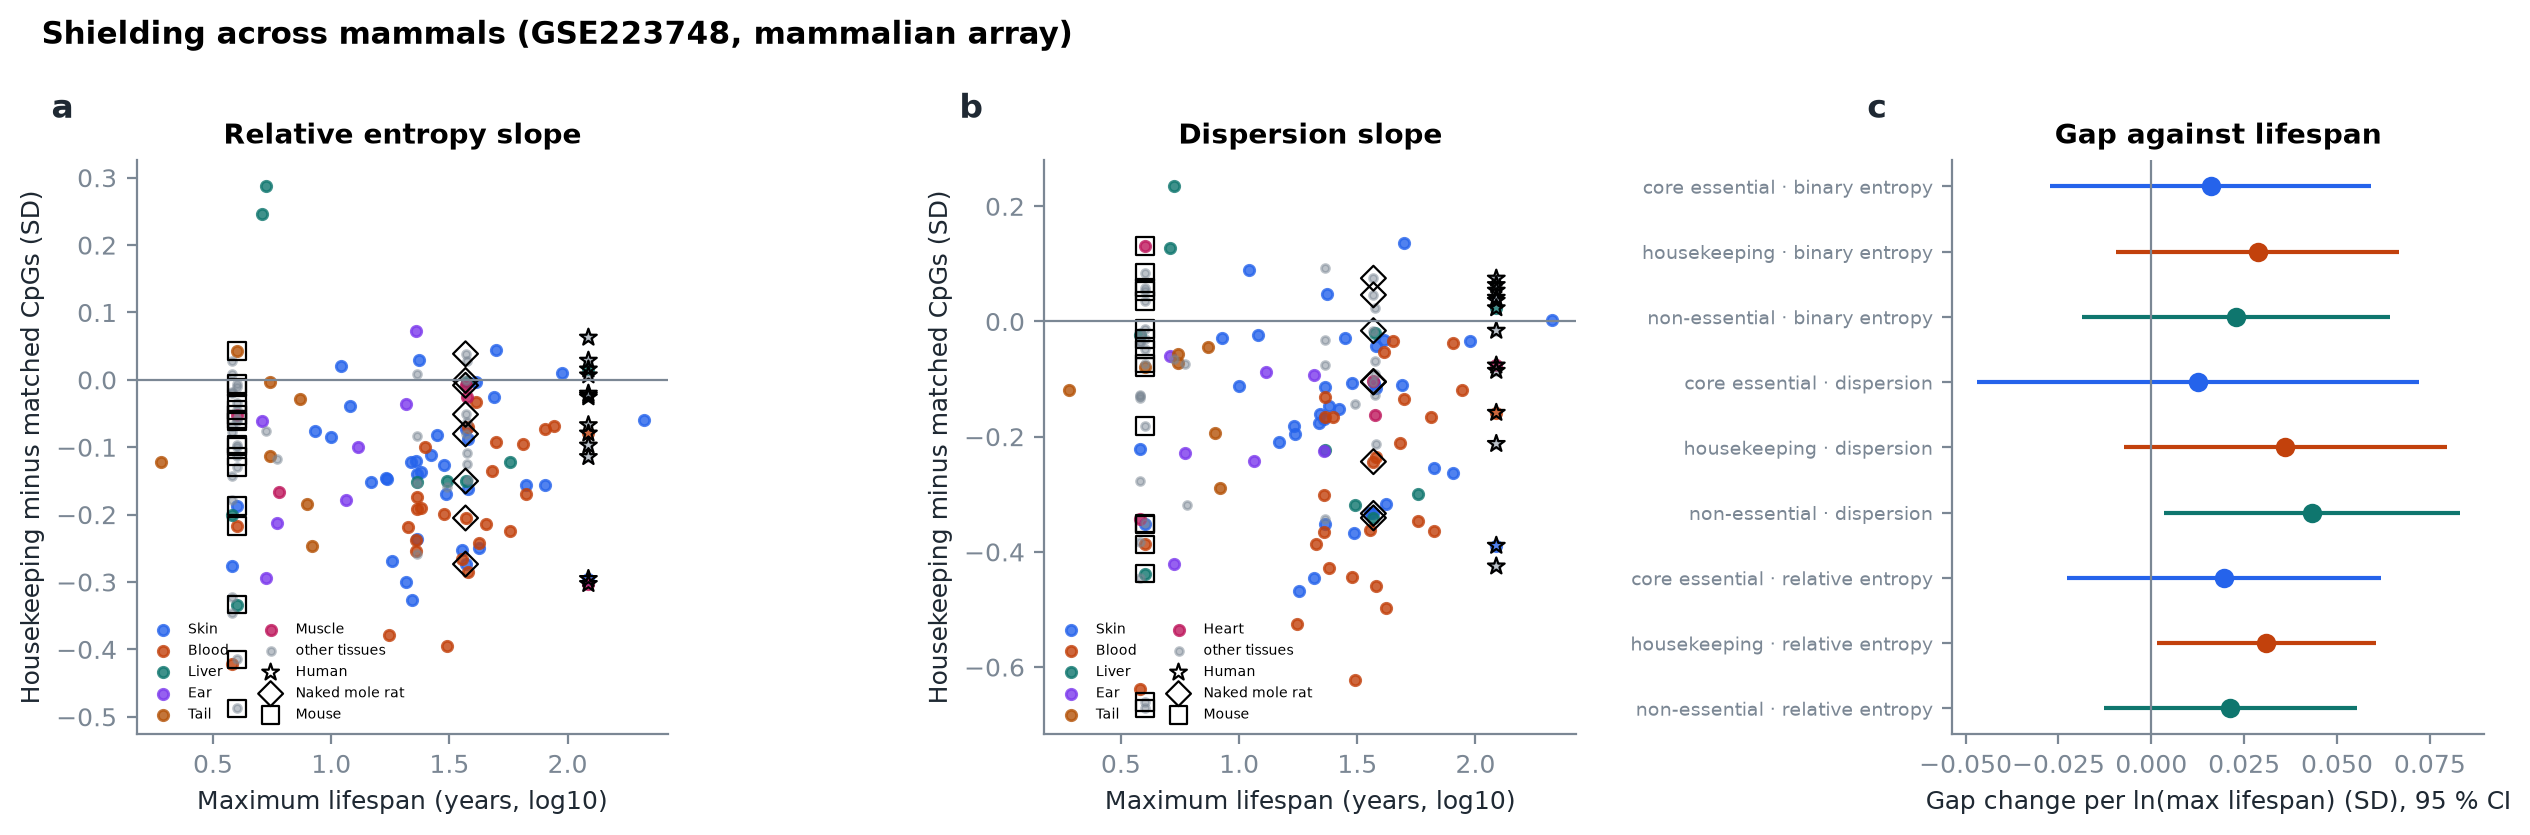
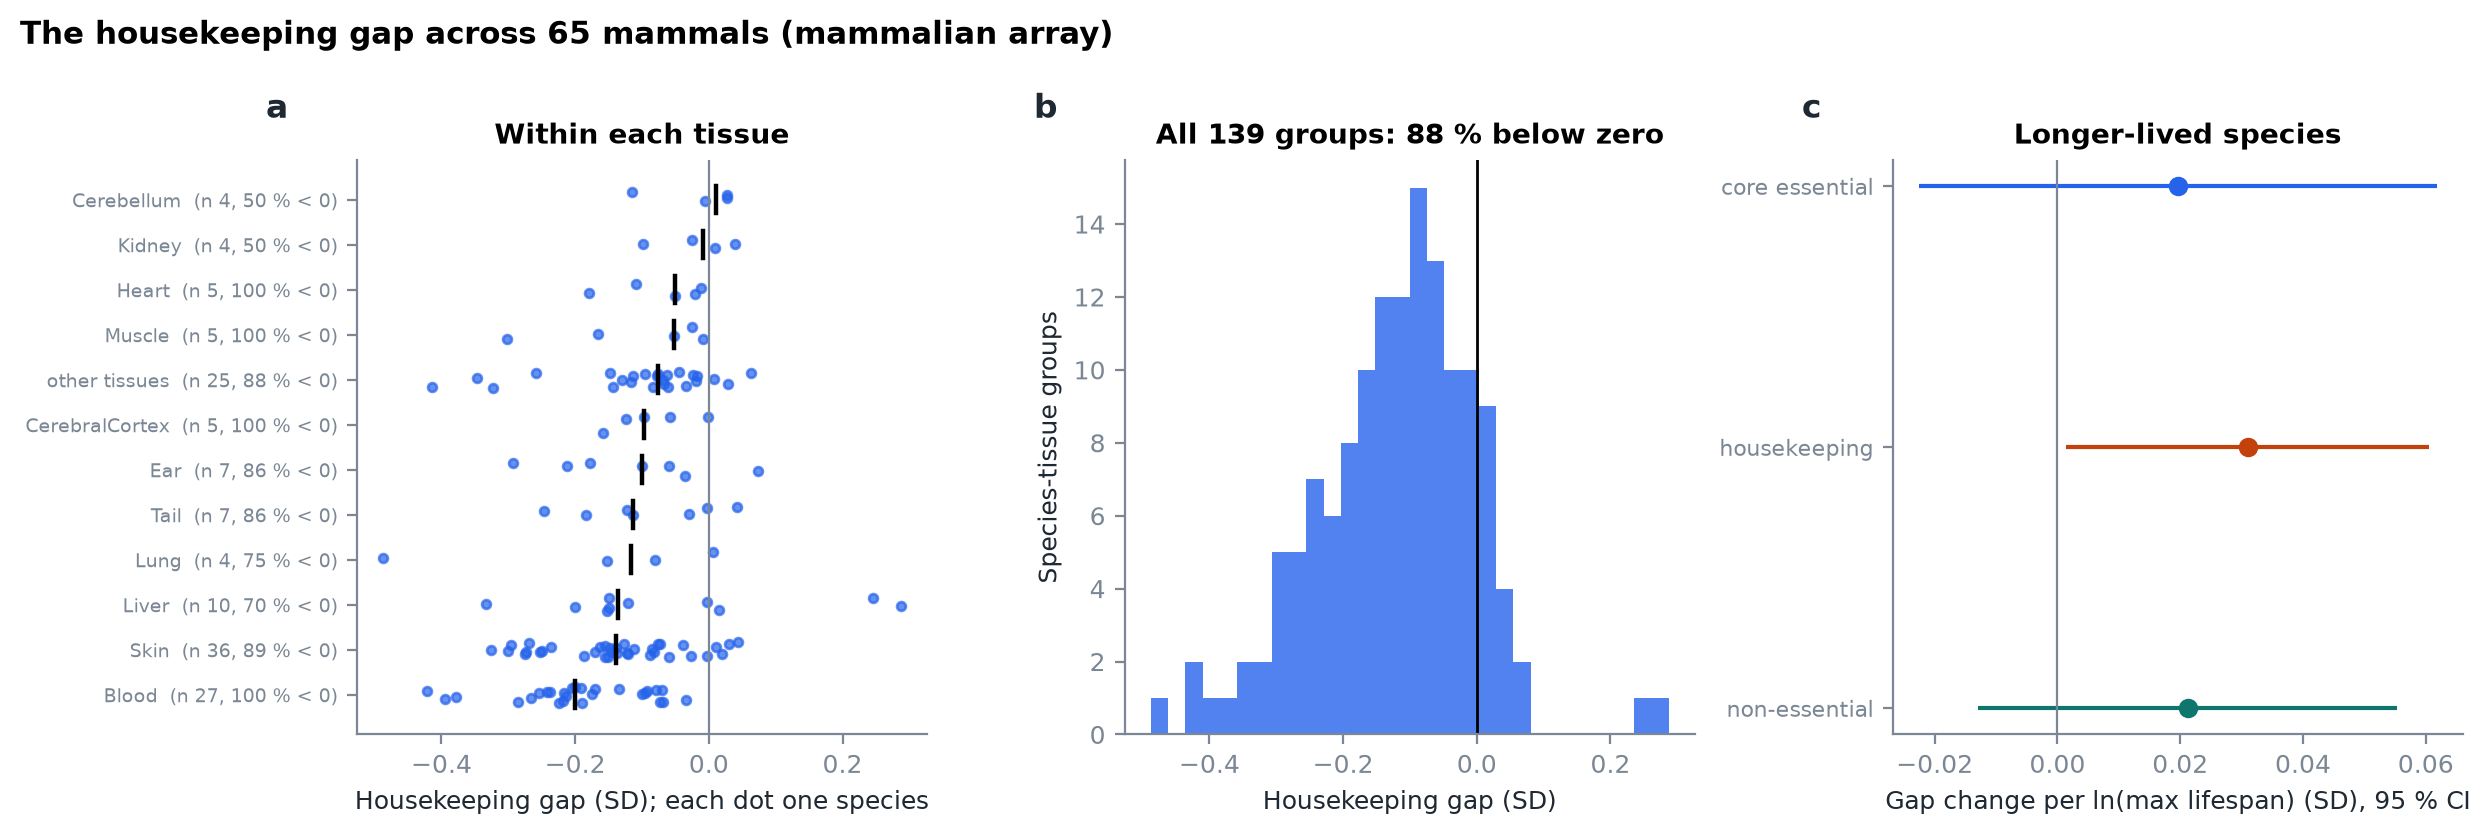
Figure 3: per-tissue view with share below zero, histogram of all groups, lifespan coefficients
Seat: entropy-age/lead
Claude-Session: https://claude.ai/code/session_01TJzjgJACUvbS1joxbZrgzk

diff --git a/src/entropy_age/experiments/species_shield.py b/src/entropy_age/experiments/species_shield.py
@@ -299,61 +299,60 @@ MARKED = {"Human": "*", "Naked mole rat": "D", "Mouse": "s"}
 
 
 def _figure(ctx: Context, gaps: pl.DataFrame, fits: pl.DataFrame) -> Path:
+    """(a) the housekeeping gap per species within each tissue, (b) all groups, (c) the lifespan coefficients."""
     fig, axes = plots.panels(3, ncols=3, size=4.2)
-    for i, metric in enumerate(("kl_slope", "dispersion_slope")):
-        ax = axes[i]
-        sel = gaps.filter((pl.col("metric") == metric) & (pl.col("group") == "housekeeping"))
-        tissues = sel.group_by("tissue").len().sort("len", descending=True)["tissue"].to_list()[:6]
-        for j, t in enumerate(tissues):
-            sub = sel.filter(pl.col("tissue") == t)
-            ax.scatter(
-                np.log10(sub["max_lifespan"]),
-                sub["gap_sd"],
-                s=14,
-                color=plots.PALETTE[j % len(plots.PALETTE)],
-                label=t,
-                alpha=0.8,
-            )
-        other = sel.filter(~pl.col("tissue").is_in(tissues))
-        ax.scatter(
-            np.log10(other["max_lifespan"]), other["gap_sd"], s=8, color=plots.MUTED, label="other tissues", alpha=0.5
-        )
-        for name, marker in MARKED.items():
-            hit = sel.filter(pl.col("species").str.to_lowercase() == name.lower())
-            ax.scatter(
-                np.log10(hit["max_lifespan"]),
-                hit["gap_sd"],
-                s=40,
-                marker=marker,
-                facecolors="none",
-                edgecolors="black",
-                linewidths=0.8,
-                label=name,
-            )
-        ax.axhline(0, color=plots.MUTED, lw=0.8)
-        ax.set(
-            xlabel="Maximum lifespan (years, log10)",
-            ylabel="Housekeeping minus matched CpGs (SD)",
-            title=f"{METRIC_NAMES[metric].capitalize()} slope",
-        )
-        ax.legend(fontsize=5, loc="lower left", ncol=2)
-        plots.label_panel(ax, "ab"[i])
-    ax = axes[2]
-    sel = fits.filter((pl.col("term") == "log max lifespan") & (pl.col("outcome") == "gap_sd"))
-    labels = []
-    for k, r in enumerate(sel.iter_rows(named=True)):
-        ax.errorbar(r["coef"], k, xerr=1.96 * r["se"], fmt="o", color=plots.PALETTE[SETS.index(r["group"])])
-        labels.append(f"{SET_LABELS[r['group']]} · {METRIC_NAMES[r['metric']]}")
-    ax.axvline(0, color=plots.MUTED, lw=0.8)
-    ax.set_yticks(range(len(labels)), labels, fontsize=7)
-    ax.invert_yaxis()
-    ax.set(
-        xlabel="Gap change per ln(max lifespan) (SD), 95 % CI",
-        title="Gap against lifespan",
+    sel = gaps.filter((pl.col("metric") == "kl_slope") & (pl.col("group") == "housekeeping"))
+    counts = sel.group_by("tissue").len()
+    major = counts.filter(pl.col("len") >= 4)["tissue"].to_list()
+    sel = sel.with_columns(
+        panel_tissue=pl.when(pl.col("tissue").is_in(major)).then(pl.col("tissue")).otherwise(pl.lit("other tissues"))
     )
+    order = (
+        sel.group_by("panel_tissue")
+        .agg(pl.col("gap_sd").median().alias("median"), pl.len().alias("n"), (pl.col("gap_sd") < 0).mean().alias("neg"))
+        .sort("median")
+    )
+    ax = axes[0]
+    rng = np.random.default_rng(0)
+    for k, r in enumerate(order.iter_rows(named=True)):
+        v = sel.filter(pl.col("panel_tissue") == r["panel_tissue"])["gap_sd"].to_numpy()
+        ax.scatter(v, k + rng.uniform(-0.18, 0.18, v.size), s=10, color=plots.PALETTE[0], alpha=0.7)
+        ax.plot([r["median"]] * 2, [k - 0.3, k + 0.3], color="black", lw=1.6)
+    ax.axvline(0, color=plots.MUTED, lw=0.8)
+    ax.set_yticks(
+        range(order.height),
+        [f"{t}  (n {n}, {100 * s:.0f} % < 0)" for t, n, s in order.select("panel_tissue", "n", "neg").iter_rows()],
+        fontsize=7,
+    )
+    ax.set(xlabel="Housekeeping gap (SD); each dot one species", title="Within each tissue")
+    plots.label_panel(ax, "a")
+
+    ax = axes[1]
+    v = sel["gap_sd"].to_numpy()
+    ax.hist(v, bins=30, color=plots.PALETTE[0], alpha=0.8)
+    ax.axvline(0, color="black", lw=1)
+    ax.set(
+        xlabel="Housekeeping gap (SD)",
+        ylabel="Species-tissue groups",
+        title=f"All {v.size} groups: {100 * (v < 0).mean():.0f} % below zero",
+    )
+    plots.label_panel(ax, "b")
+
+    ax = axes[2]
+    fsel = fits.filter(
+        (pl.col("term") == "log max lifespan") & (pl.col("outcome") == "gap_sd") & (pl.col("metric") == "kl_slope")
+    )
+    labels = []
+    for k, r in enumerate(fsel.iter_rows(named=True)):
+        ax.errorbar(r["coef"], k, xerr=1.96 * r["se"], fmt="o", color=plots.PALETTE[SETS.index(r["group"])])
+        labels.append(SET_LABELS[r["group"]])
+    ax.axvline(0, color=plots.MUTED, lw=0.8)
+    ax.set_yticks(range(len(labels)), labels, fontsize=8)
+    ax.invert_yaxis()
+    ax.set(xlabel="Gap change per ln(max lifespan) (SD), 95 % CI", title="Longer-lived species")
     plots.label_panel(ax, "c")
     fig.suptitle(
-        "Shielding across mammals (GSE223748, mammalian array)", x=0.02, ha="left", fontsize=11, fontweight="bold"
+        "The housekeeping gap across 65 mammals (mammalian array)", x=0.02, ha="left", fontsize=11, fontweight="bold"
     )
     fig.tight_layout()
     return plots.save(fig, ctx.figure_path("species_shield"))

diff --git a/manuscript/paper.md b/manuscript/paper.md
@@ -265,11 +265,12 @@ negative in 73 % of groups (−0.10 SD).
 
 ![Figure 3](../docs/figures/species_shield.png)
 
-**Figure 3. The shield across 65 mammals.** (a, b) Housekeeping minus matched gap per species-tissue group against
-log10 maximum lifespan, on the relative-entropy and dispersion slopes (139 groups; Mammalian Methylation Consortium
-array); human, naked mole-rat and mouse groups are marked. Below zero, housekeeping CpGs drift less than matched CpGs.
-(c) Change of the gap per natural-log unit of maximum lifespan, weight and tissue held (95 % interval). The
-all-CpG relative-entropy coefficient (+0.031, or +0.071 per tenfold lifespan; p 0.04) vanishes off the 0 % floor (+0.004, p 0.83; Supplementary Fig. S7). How to read: each point is a gene set's gap, its CpGs' drift rate (age slope of relative entropy unless the panel says otherwise) minus that of matched CpGs of the same island status and young level, in SD of the drift rate over all CpGs; below zero = the set drifts less than comparable CpGs (Box 1).
+**Figure 3. The shield across 65 mammals.** (a) The housekeeping gap (relative-entropy slope) of each species
+within each tissue, tissues with at least four species shown separately and the rest pooled; black bars are tissue
+medians, labels give the number of species and the share below zero (Mammalian Methylation Consortium array). (b)
+All 139 species-tissue groups: 88 % lie below zero. (c) Change of the gap per natural-log unit of maximum lifespan,
+weight and tissue held (95 % interval); the housekeeping coefficient (+0.031, or +0.071 per tenfold lifespan; p 0.04)
+vanishes off the 0 % floor (+0.004, p 0.83; Supplementary Fig. S7). How to read: each point is a gene set's gap, its CpGs' drift rate (age slope of relative entropy unless the panel says otherwise) minus that of matched CpGs of the same island status and young level, in SD of the drift rate over all CpGs; below zero = the set drifts less than comparable CpGs (Box 1).
 
 ### Essential promoters lose methylation faster and rest lower
 

diff --git a/docs/CHANGELOG.md b/docs/CHANGELOG.md
@@ -4,6 +4,7 @@ Newest first.
 
 ## Unreleased
 
+- 2026-11-24: Figure 3 redrawn around its message (Anton: the scatter read as "messy between tissues"): gap per species within each tissue with share below zero, all groups as a histogram (88 % below zero), lifespan coefficients; caption rewritten.
 - 2026-11-24 (pipeline plan step 1): shared runner writes a guards table per series (arrays selected, passing detection, kept per donor, repeats dropped, platforms, complete CpGs, chips, unknown chips, age variance on chip, identifiability with chip).
 - 2026-11-24: Box 1 figure: schematic from one CpG to a gap (scripts/box1_schematic.py).
 - 2026-11-24: Introduction now explains the measure, matching, the gap and its sign before any result; every main figure caption ends with a how-to-read line; captioned figures rebuilt (Anton).
